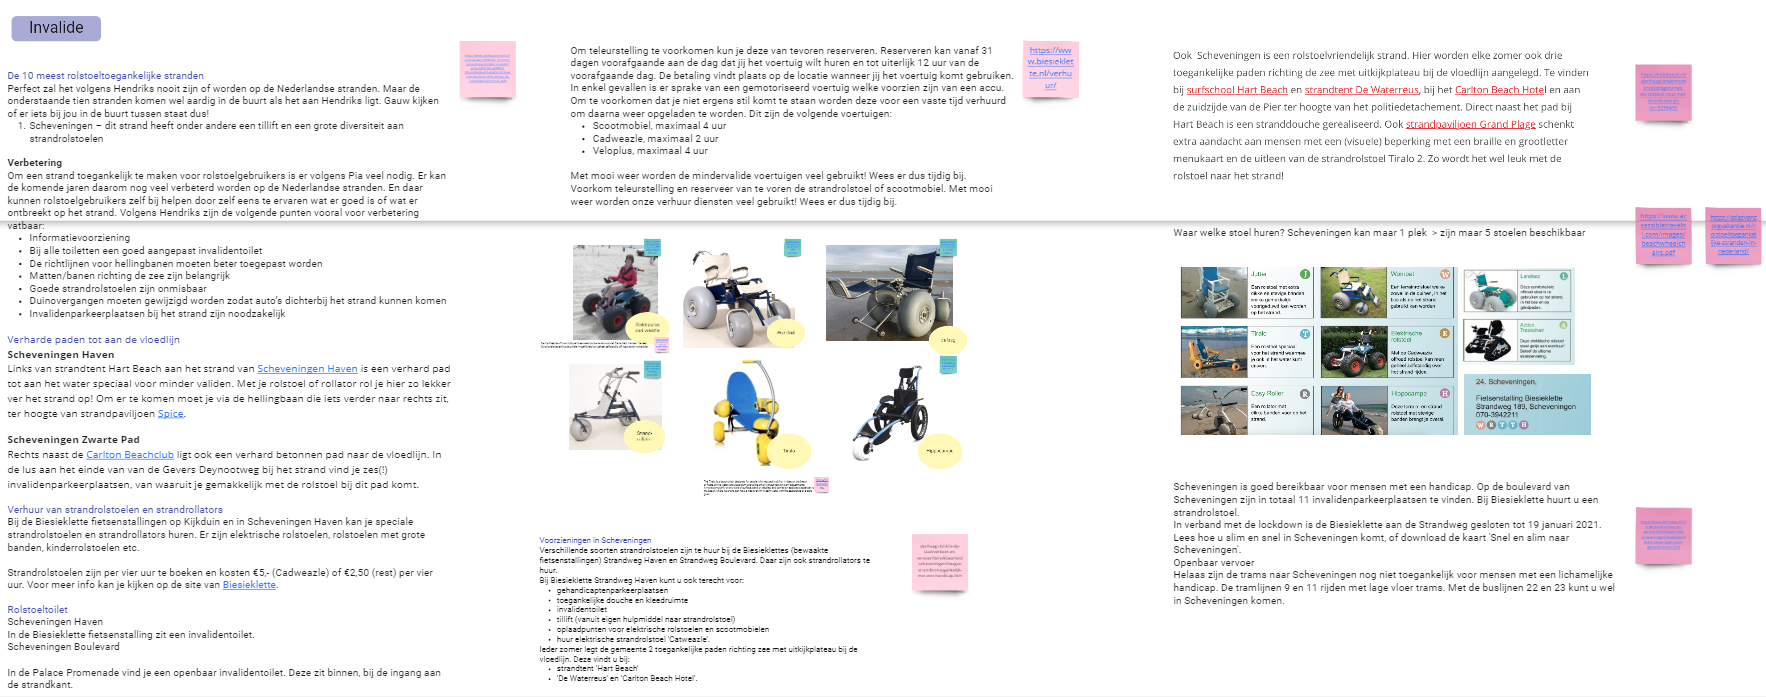
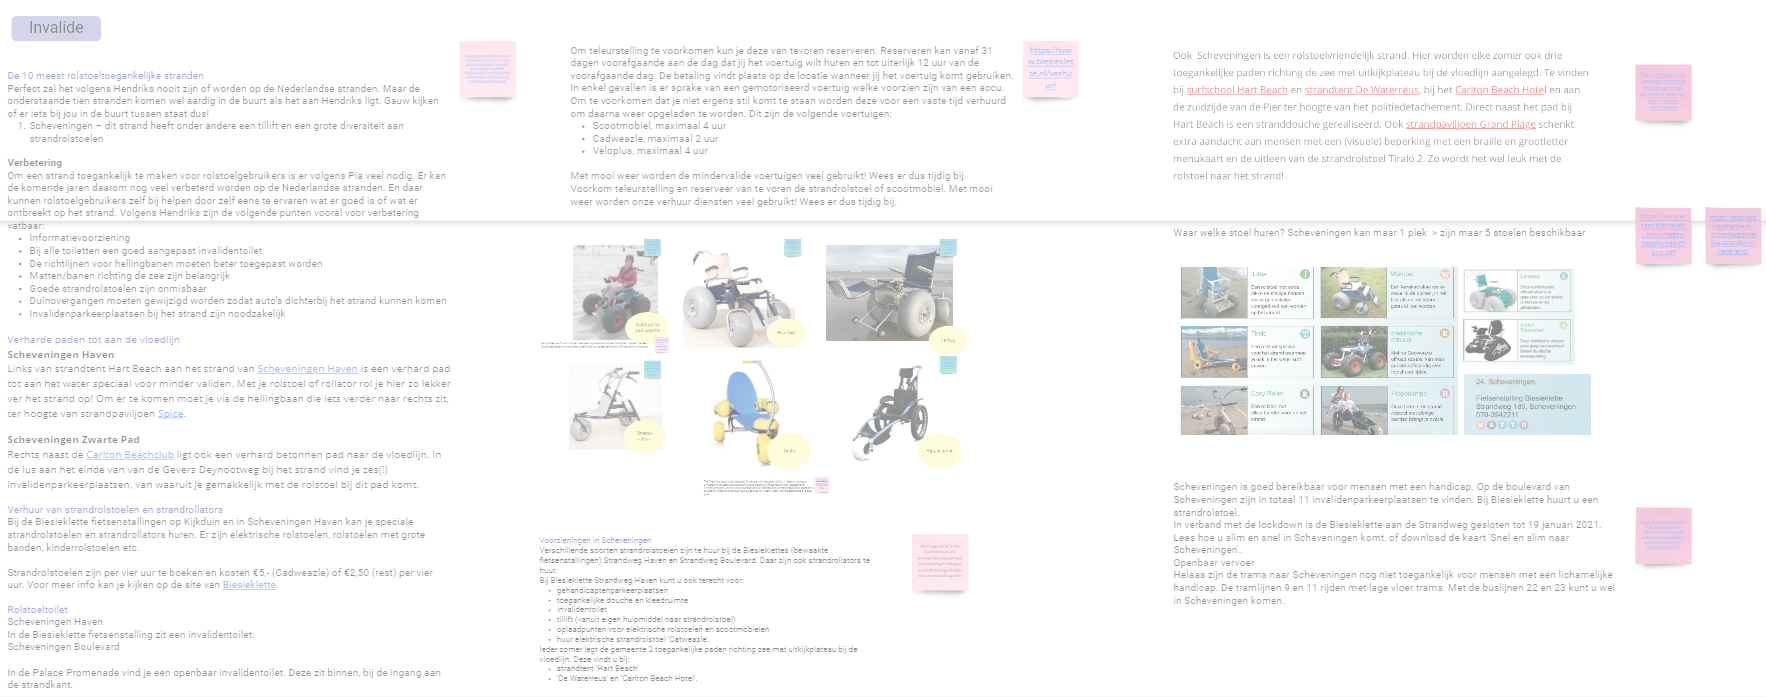
better background images

diff --git a/src/components/ResearchBlock.vue b/src/components/ResearchBlock.vue
@@ -62,8 +62,6 @@ export default class ResearchBlock extends Vue {
         align-self: center;
         background-repeat: no-repeat;
         background-size: cover;
-        background-position: top;
-        background-attachment: fixed;
     }
         .blue {
             background-color: @blue-light;
@@ -71,16 +69,13 @@ export default class ResearchBlock extends Vue {
 
         .invaliden {
             background-image: url('../assets/miro_invaliden.png');
-            filter: brightness(40%);
         }
 
         .afval {
             background-image: url('../assets/miro_afval.png');
-            filter: brightness(40%);
         }
         .overlast {
             background-image: url('../assets/miro_overlast.png');
-            filter: brightness(40%);
         }
 
 svg {
